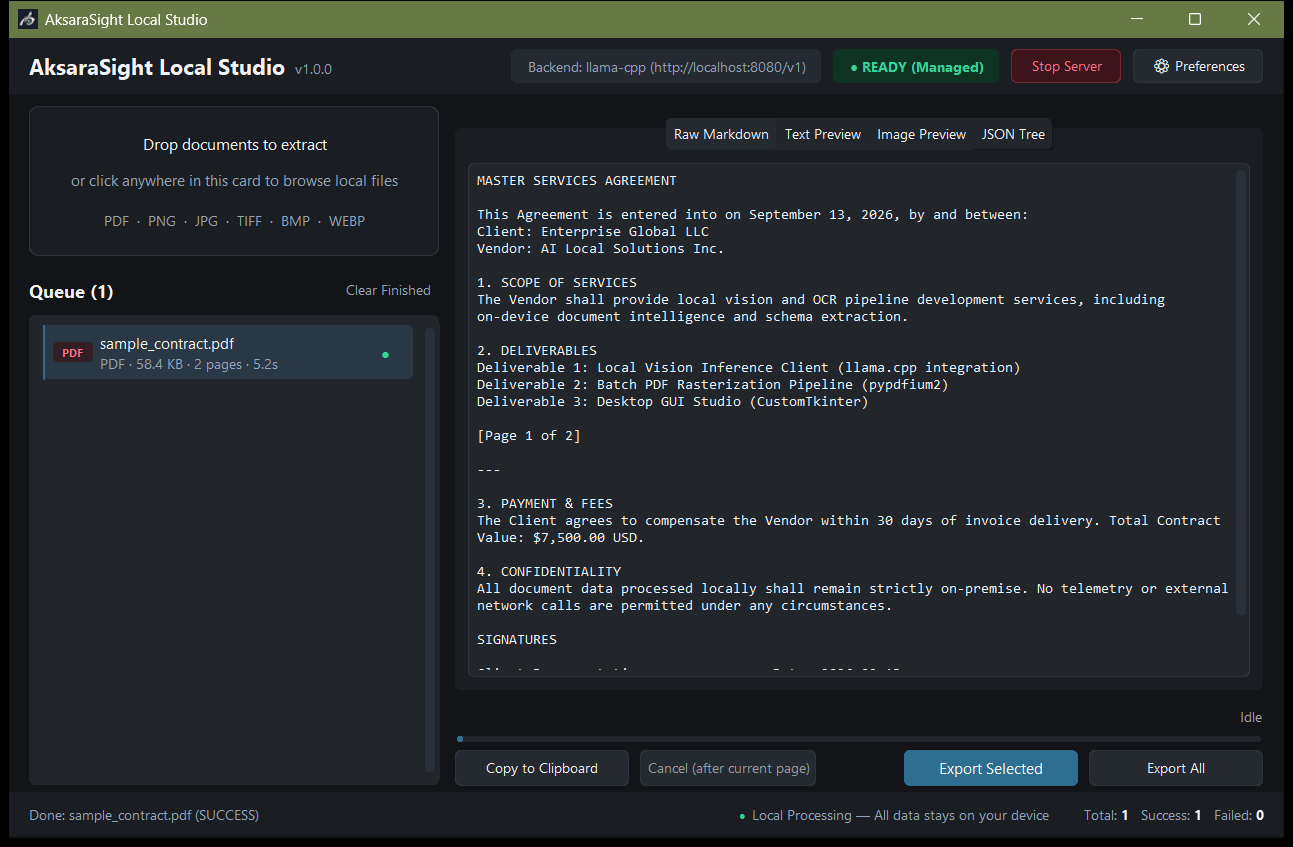
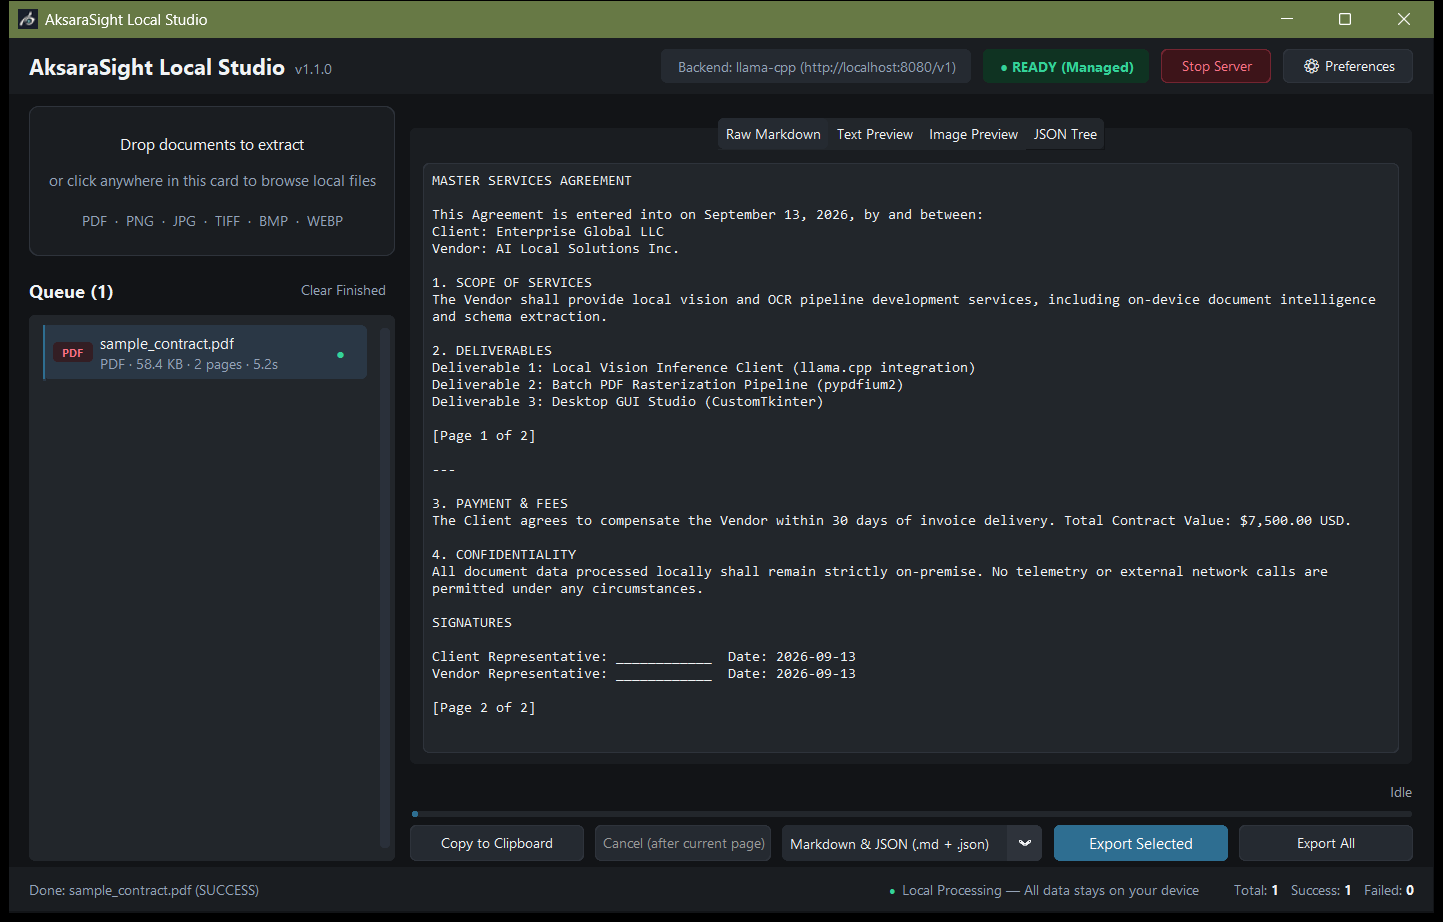
docs(readme): tidy preview image layouts, add hero studio preview, and regenerate clean screenshots

diff --git a/scripts/capture_gui_screenshot.py b/scripts/capture_gui_screenshot.py
@@ -105,7 +105,7 @@ def main() -> None:
 
         mock_engine = MagicMock()
         app = OCRApp(settings=Settings(), engine=mock_engine)
-        app.geometry("1020x640+20+10")
+        app.geometry("1140x700+20+10")
 
         # Prevent background worker from consuming demo queue items
         app._task_queue.put = lambda item, *args, **kwargs: None
@@ -235,7 +235,7 @@ def capture_live_backend_preview(temp_dir: Path, out_dir: Path, artifact_dir: Pa
 
     mock_engine = MagicMock()
     app = OCRApp(settings=Settings(auto_start_server=False), engine=mock_engine)
-    app.geometry("1020x640+20+10")
+    app.geometry("1140x700+20+10")
     app._task_queue.put = lambda item, *args, **kwargs: None
 
     app.enqueue_file(f_contract)

diff --git a/README.md b/README.md
@@ -1,8 +1,10 @@
 # AksaraSight
 
-**AksaraSight** is a lightweight, 100% local OCR tool powered by GLM-OCR (0.9B parameters). Converts scanned documents, forms, receipts, and images into clean Markdown and structured JSON — entirely on your own machine.
+**AksaraSight** is a lightweight, 100% local OCR tool powered by GLM-OCR (0.9B parameters). Converts scanned documents, forms, receipts, and images into clean Markdown, formatted Word documents (.docx), and structured JSON — entirely on your own machine.
 
 No cloud APIs. No telemetry. If the local inference backend is unreachable, the tool fails with a clear error instead of quietly sending your documents anywhere.
+
+![AksaraSight Desktop GUI Studio Preview](docs/images/gui_refined_preview.png)
 
 ---
 
@@ -57,9 +59,10 @@ The quickest way to get started. You don't need to install `llama-server` or con
    - Your hardware is detected automatically.
    - Click **Download Runtime**. It downloads the verified `llama-server` build for your machine (along with CUDA runtime libraries if on an NVIDIA GPU), verifies the archive against pinned SHA-256 hashes, and extracts it to `%LOCALAPPDATA%\AksaraSight\runtimes\`.
 
-   ![Preferences settings preview](docs/images/settings_window_preview.png)
-
-   ![Managed runtime supervision preview](docs/images/settings_window_scrolled_preview.png)
+   <p align="center">
+     <img src="docs/images/settings_window_preview.png" alt="Preferences settings preview" width="48%">
+     <img src="docs/images/settings_window_scrolled_preview.png" alt="Managed runtime supervision preview" width="48%">
+   </p>
 
 4. **Start & Process**:
    - Click **Start Server** in the header. Once initialized, the indicator turns `● READY`.
@@ -116,7 +119,7 @@ If you already run your own `llama-server`, Ollama, or vLLM instance:
 
 ## Desktop GUI Studio
 
-![GUI preview](docs/images/gui_refined_preview.png)
+![Desktop GUI Studio showing live backend status, active queue, and multi-tab inspection](docs/images/gui_live_backend_preview.png)
 
 - **Header controls.** Monitor server state (`● READY`, `● STARTING`, `● OFFLINE`, `● ERROR`), start or stop the backend with one click, and access the Preferences modal.
 - **Drop zone.** Drag in individual scans or entire folder hierarchies for asynchronous discovery. You can also click anywhere in the card to open a standard file browser.
@@ -127,8 +130,6 @@ If you already run your own `llama-server`, Ollama, or vLLM instance:
   - *Image Preview*: Paginated original page rasters, rendered on demand to conserve RAM.
   - *JSON Tree*: Structured metadata, per-page latency benchmarks, and status logs.
 - **Action bar & footer.** Copy Markdown directly, export selected documents, or trigger a multi-threaded batch export with live progress reporting. Also includes a "Clear Finished" queue cleanup button and a persistent footer with on-device privacy guarantees.
-
-![Live backend processing preview](docs/images/gui_live_backend_preview.png)
 
 ## CLI Reference
 
@@ -183,7 +184,9 @@ A documented template is available in `.env.example`.
 
 - **Loopback by default.** Outbound connections are restricted strictly to loopback addresses (`localhost`, `127.0.0.1`, `::1`). Connecting to a remote endpoint requires explicit opt-in (`--allow-remote` or `OCR_ALLOW_REMOTE=true`), and both the CLI and GUI warn loudly when remote mode is enabled.
 
-  ![Security confirmation preview](docs/images/security_confirmation_preview.png)
+  <p align="center">
+    <img src="docs/images/security_confirmation_preview.png" alt="Security confirmation preview" width="460">
+  </p>
 
 - **No cloud fallback.** If the local backend crashes or goes offline, processing stops immediately with a clear error. Documents are never routed out to an external service.
 - **Verified runtime downloads.** In managed mode, `llama-server.exe` and companion libraries (like `cudart*.dll`) are downloaded directly from official GitHub release assets over HTTPS, checked against pinned SHA-256 hashes before extraction, protected against Zip-Slip path traversal, and executed with isolated working directories. (Note: GGUF model weights are fetched by llama.cpp's built-in Hugging Face downloader and are not currently pinned or hash-verified by AksaraSight.)
